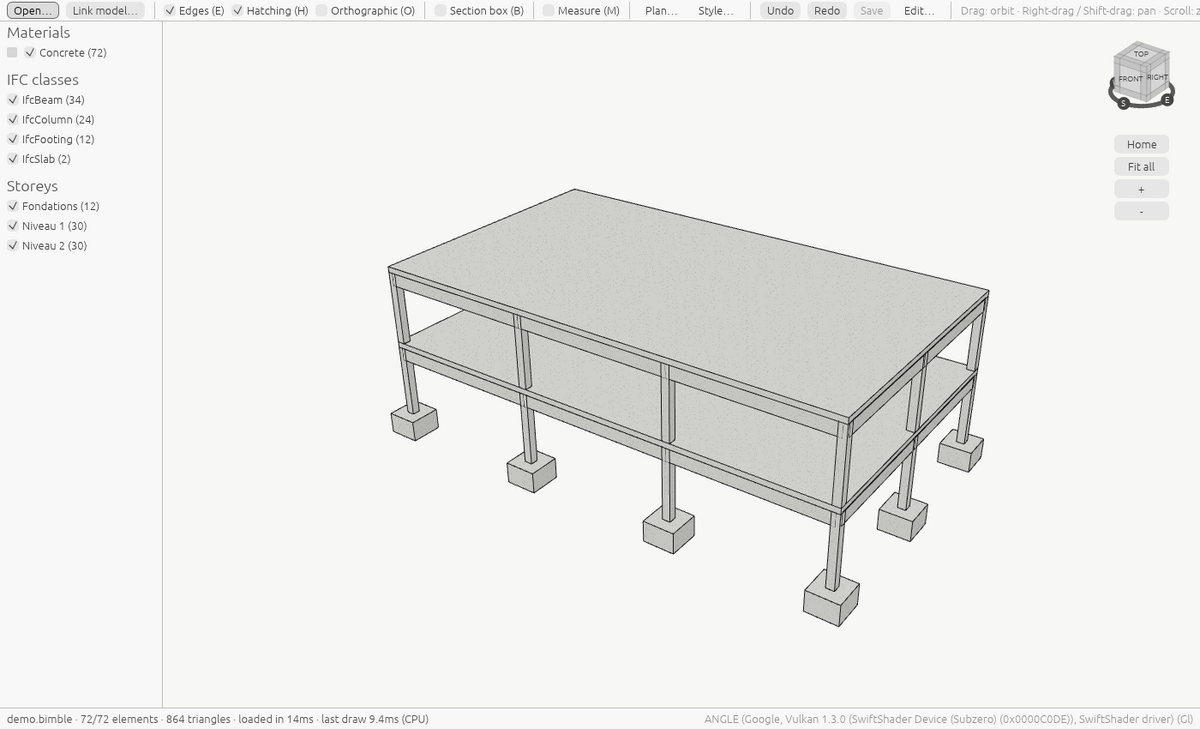
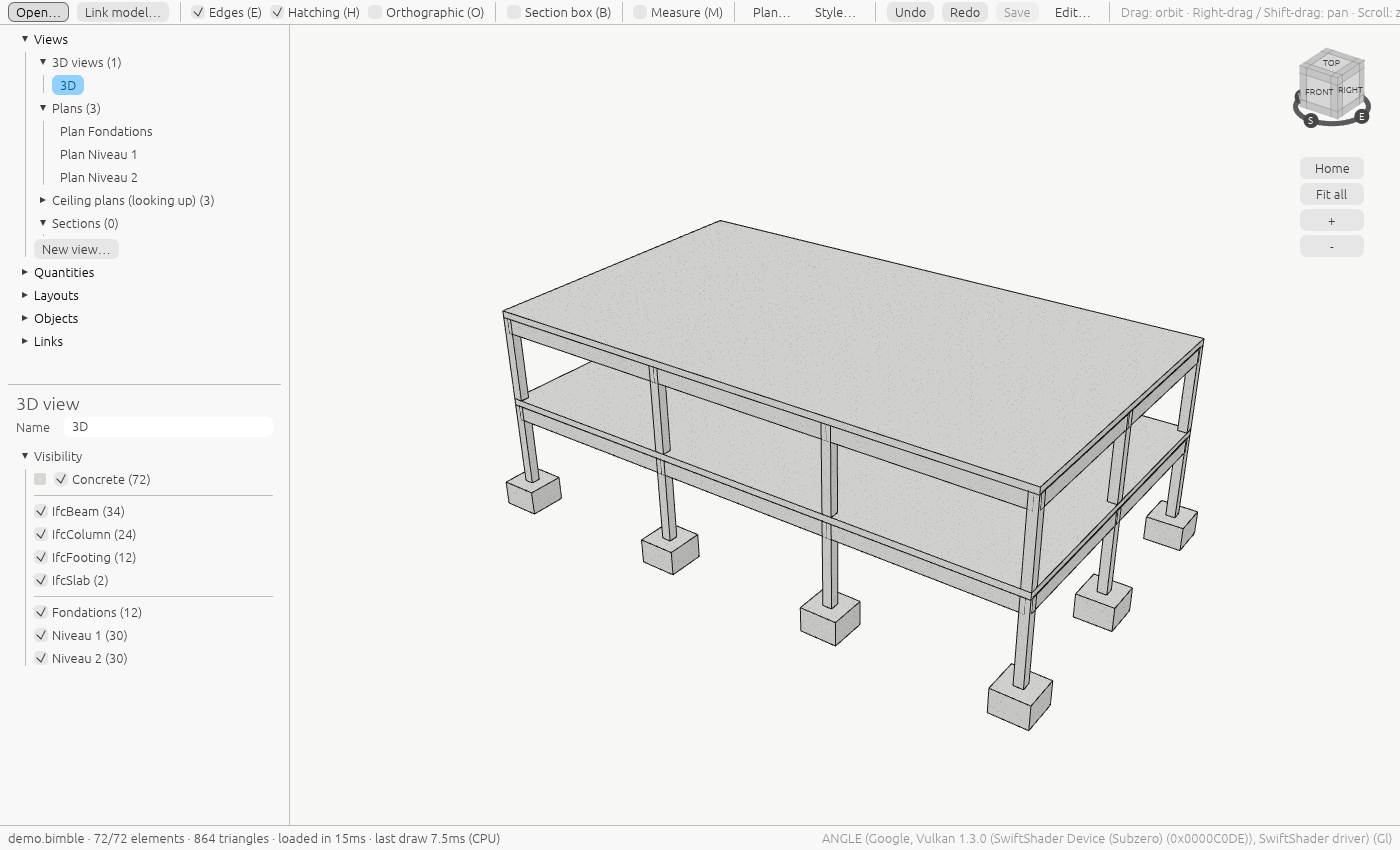
Manual: views and reference plans; the new left panel (navigator, properties)
Claude-Session: https://claude.ai/code/session_01NjHAvhKLoCiQzrcv9aREmM

Changed region(s): [[0.3083, 0.2414, 0.8633, 0.8752], [0.0, 0.0302, 0.1542, 0.4225], [0.0, 0.4527, 0.1233, 0.7846]]

diff --git a/docs/manual/views.md b/docs/manual/views.md
@@ -1,0 +1,155 @@
+# Views and reference plans
+
+A model has several **views**: 3D views, plans looking down, ceiling plans looking up, and
+sections. Each view keeps its own camera, what it hides and its reference plans. You select,
+edit and measure elements in a plan or a section exactly as in 3D.
+
+## The model navigator
+
+The top of the left panel lists everything in the model:
+
+| Section | Holds |
+|---|---|
+| **Views** | 3D views, Plans, Ceiling plans (looking up), Sections. Click one to open it |
+| **Quantities** | Number of elements and volume (m³) per IFC class |
+| **Layouts** | **Storey plan on paper…** opens the [plan window](plans.md) |
+| **Objects** | The elements by IFC class. Click one to select it and frame it |
+| **Links** | The [linked model](linked-models.md), and every reference plan with its view |
+| **Measurements** | The dimensions you took (see [Measuring](viewing.md#measuring)) |
+| **Warnings** | Problems found while reading the file |
+
+A view with reference plans shows how many, such as `Plan Niveau 1 [1 ref.]`.
+
+### The views you start with
+
+Every model has, without anything to set up:
+
+- **3D**;
+- **Plan** *storey* for each storey, looking down;
+- **Ceiling** *storey* for each storey, looking up.
+
+### New views
+
+**New view…** under the list makes:
+
+- a plan or a ceiling plan of any storey;
+- a section looking north, east, south or west, through the middle of the model;
+- another 3D view.
+
+Right-click a view for **Duplicate**, or **Delete**. A view you started with can't be deleted, but
+once you have changed it, **Reset to default** brings it back as it was.
+
+## Plans and sections
+
+In a plan or a section:
+
+- the camera looks square to the view; **drag to pan**, scroll to zoom, double-click or ++f++ to
+  fit;
+- the view cube, Home, the section box and perspective are off: the view is cut by its range;
+- clicking selects, the properties panel edits, ++m++ measures, as in 3D;
+- placing elements (**Edit…**) in a plan puts them on that plan's storey.
+
+**Ceiling plans** look up at the underside of the floor above, like a reflected ceiling plan:
+north stays at the top and east on the right.
+
+![A section looking north through the demo frame](../images/section.png)
+
+### View range
+
+A plan shows what lies between two heights, set in its properties under **View range**:
+
+| Plane | Looking down | Looking up |
+|---|---|---|
+| **Top** | Upper limit of the view's range | Upper limit of the view's range |
+| **Cut plane** | Where the model is cut; you see down from here | Where the model is cut; you see up from here |
+| **Bottom** | Lower limit | Lower limit |
+| **View depth** | How far below the cut you see | How far above the cut you see |
+
+Each plane is a **level** and an **offset** in mm:
+
+- **Associated level**: the plan's storey;
+- **Level above** or **Level below**: the next storey up or down;
+- **Unlimited**: no limit (the offset is then ignored).
+
+A plan looking down shows from the view depth up to the cut plane; a ceiling plan, from the cut
+plane up to the view depth.
+
+The planes must be in order, from the bottom up:
+
+- looking down: view depth ≤ bottom ≤ cut plane ≤ top;
+- looking up: bottom ≤ cut plane ≤ top ≤ view depth.
+
+A range out of order is refused with a message, and the view keeps its previous range.
+
+The usual cut is 1.2 m above the storey looking down and 2.3 m looking up. On a storey lower than
+that, such as a foundation level, the cut starts at half the storey's height.
+
+### Sections
+
+A section's properties set:
+
+- **Through X / Y**: the point the section passes through, in mm;
+- **Looking**: north, east, south or west;
+- **Depth**: how far beyond the cut you see, in mm; 0 shows everything.
+
+## Visibility
+
+Each view has its own **Visibility** list: material families, IFC classes and storeys. Untick one
+to hide it in this view only. The plan of a storey can hide the footings while the 3D view shows
+everything.
+
+## Reference plans
+
+A reference plan is another office's drawing, such as the architect's floor plan, laid over a plan
+or a section to check that the geometry matches and to measure on it.
+
+- It is shown **only in its view**.
+- It is **dead geometry**: its lines can't be selected or changed, only moved.
+- It is drawn in the reference colour (blue by default).
+
+![A DXF reference plan over the demo frame. One column was drawn 80 mm away from the model's.](../images/plan-reference.png)
+
+### Add one
+
+1. Open the plan or section.
+2. In its properties, under **Reference plans**, click **Add reference plan…**, or drop the file on
+   the window.
+3. Pick the file:
+    - **DXF**: read with its units (`$INSUNITS`; millimetres when the file doesn't say). Lines,
+      arcs, circles, ellipses, polylines (with arcs), splines, solids, and blocks are read, from
+      model space; text and hatches are not (the message counts what was left out).
+    - **PDF**: the vector lines of the first page. Set its scale in **PDF at 1:** *before* adding it
+      (1:100 by default). A scanned PDF has no lines to read.
+    - **DWG**: not read directly. Convert it to DXF first, with the free
+      ODA File Converter or LibreDWG's `dwg2dxf`.
+
+A DXF drawn in the project's coordinates lands where it belongs. When the plan's coordinates are
+far from the model (a PDF, a drawing at the origin), it is centred on the model and the message
+says so: then move it into place.
+
+### Move it into place
+
+- Type the **Move** offsets (X and Y in mm, along the view) and the rotation in degrees, or
+- turn on **Drag it in the view** and drag: the plan follows the mouse. Turn it off to pan again.
+
+### Measure on it
+
+With Measure (++m++) on, points snap to the reference plan's corners and lines as well as to the
+model. Measure from a column of the model to the same column on the architect's plan to see how
+far apart they are.
+
+### Hide or remove it
+
+The tick box next to its name shows or hides it; **Remove** takes it out of the view.
+
+## Where views are saved
+
+- In a **`.bimble` model**, views are part of the model: saved with it, undone with ++ctrl+z++, and
+  kept in its [history](history.md).
+- An **IFC file** is never changed. Its views go in a file next to it, named after it:
+  `model.ifc.bimble-views.json`. **Save views** in the toolbar, or ++ctrl+s++, writes it; it is read
+  the next time you open the IFC. In a browser, it is downloaded instead, and can't be read back
+  there yet.
+
+Reference plans are stored inside the view (as lines in mm), so the model or the side file carries
+them: the original DXF or PDF is no longer needed.

diff --git a/docs/manual/first-steps.md b/docs/manual/first-steps.md
@@ -25,7 +25,7 @@ took to load, and the graphics card in use.
 | Drag | Orbit around the model |
 | Right-drag, or Shift-drag | Pan |
 | Scroll | Zoom |
-| Click | Select an element (its properties appear on the right) |
+| Click | Select an element (its properties appear at the bottom left) |
 | Double-click, or ++f++ | Fit everything visible in the view |
 | ++t++ | Look from the top |
 | ++o++ | Switch between perspective and orthographic |
@@ -52,10 +52,24 @@ The buttons under the cube:
 - **Fit sel.** (when something is selected) frames the selection.
 - **+** and **−** zoom in and out.
 
+## The left panel
+
+The left panel has two parts, one above the other (drag the line between them to share the
+height):
+
+- the **model navigator** at the top: the model's views, quantities, layouts, objects and links,
+  then measurements and warnings;
+- the **properties** below: those of the selected element, or of the view when nothing is
+  selected.
+
+[Views and reference plans](views.md) explains the navigator and the views.
+
 ## Show and hide
 
-The panel on the left lists the model's **material families**, **IFC classes** and **storeys**,
-with the number of elements in each. Untick one to hide those elements, tick it again to show them.
+Under **Visibility**, in the view's properties, are the model's **material families**, **IFC
+classes** and **storeys**, with the number of elements in each. Untick one to hide those elements,
+tick it again to show them. What you hide is kept with the view: the plan of a storey can hide the
+footings while the 3D view shows everything.
 
 The toolbar switches **Edges** (++e++) and **Hatching** (++h++) on and off. Hatching is the pattern
 drawn on each material: concrete stipple, timber grain, and so on.
@@ -63,5 +77,6 @@ drawn on each material: concrete stipple, timber grain, and so on.
 ## What next
 
 - [Looking at a model](viewing.md): section box, measuring, properties.
+- [Views and reference plans](views.md): plans, ceiling plans, sections, another office's drawing.
 - [Storey plans](plans.md): draw a plan at scale.
 - [Editing a model](editing.md): change a `.bimble` model.

diff --git a/docs/manual/viewing.md b/docs/manual/viewing.md
@@ -2,20 +2,22 @@
 
 ## Properties
 
-Click an element to select it. Its properties open in a panel on the right:
+Click an element to select it, in a 3D view or a plan or section. Its properties replace the
+view's at the bottom of the left panel:
 
 - IFC class, name and GlobalId (selectable, so you can copy it);
 - storey and material, with the material's family;
 - number of triangles and volume, in m³.
 
-++esc++ clears the selection.
+++esc++, or **← View properties**, clears the selection.
 
 In a `.bimble` model, the same panel lets you change the element: see
 [Editing a model](editing.md).
 
 ## Section box
 
-The section box (++b++) shows only what is inside a box. Solids it cuts show their cut face, so
+The section box is for 3D views; plans and sections are cut by their [view range](views.md#view-range)
+instead. The section box (++b++) shows only what is inside a box. Solids it cuts show their cut face, so
 you can see inside walls, slabs and columns.
 
 - Tick **Section box** in the toolbar, or press ++b++. The box starts around the selected element,
@@ -41,7 +43,10 @@ Measure (++m++) takes dimensions on the model: two clicks make one dimension.
     Corners and edges hidden behind something are ignored.
 3. Click the first point, then the second. ++esc++ drops a first point you don't want.
 
-Each dimension is listed under **Measurements** in the left panel with:
+In a plan or a section, the points also snap to the corners and lines of the view's
+[reference plans](views.md#reference-plans).
+
+Each dimension is listed under **Measurements** in the model navigator with:
 
 - the distance;
 - its ΔX, ΔY and ΔZ;
@@ -53,6 +58,6 @@ model is open: they aren't saved in the file yet.
 
 ## Warnings
 
-Problems found while reading a file are listed under **Warnings** at the bottom of the left panel.
+Problems found while reading a file are listed under **Warnings** at the bottom of the model navigator.
 A typical one: an opening that couldn't be cut because a wall's geometry isn't a closed solid. The
 element is then drawn uncut.

diff --git a/docs/reference/keys.md b/docs/reference/keys.md
@@ -1,6 +1,6 @@
 # Mouse and keys
 
-Keys act on the 3D view; they do nothing while you are typing in a field. On macOS, ++ctrl++ is
+Keys act on the view; they do nothing while you are typing in a field. On macOS, ++ctrl++ is
 ++cmd++.
 
 ## Mouse
@@ -16,6 +16,9 @@ Keys act on the 3D view; they do nothing while you are typing in a field. On mac
 | Drag the view cube | Orbit |
 | Click the view cube | Look from that face, edge or corner |
 | Drag a section box arrow | Move that face of the box |
+
+In a plan or a section, dragging pans (there is nothing to orbit), or moves the reference plan whose
+**Drag it in the view** is on. ++t++, ++o++ and ++b++ do nothing there, and the view cube is hidden.
 
 ## Keys
 
@@ -36,5 +39,5 @@ Keys act on the 3D view; they do nothing while you are typing in a field. On mac
 |---|---|
 | ++ctrl+z++ | Undo |
 | ++ctrl+y++, ++ctrl+shift+z++ | Redo |
-| ++ctrl+s++ | Save (download, in a browser) |
+| ++ctrl+s++ | Save (download, in a browser). With an IFC model: save its views to the side file |
 | ++delete++ | Delete the selected element |

diff --git a/docs/index.md b/docs/index.md
@@ -5,8 +5,9 @@ uses IFC as its data model, and treats the drawing as the product.
 
 With Bimble you can:
 
-- **open IFC files** and look at them: filters by material, IFC class and storey, a section box,
-  measuring, a view cube;
+- **open IFC files** and look at them: 3D views, plans looking down or up and sections with a
+  view range, another office's plan on top to check it against, filters by material, IFC class
+  and storey, a section box, measuring, a view cube;
 - **compare** your model with another one, such as the architect's IFC, and see what only one of
   them has;
 - **draw storey plans at scale** (1:1 to 1:5000) on A4 to A0, as PDF, SVG or PNG. Plans can have

diff --git a/docs/manual/editing.md b/docs/manual/editing.md
@@ -18,7 +18,8 @@ With a `.bimble` model open, the toolbar shows **Undo**, **Redo**, **Save**, **E
 
 ## Change an element
 
-Click an element. The panel on the right shows its properties:
+Click an element, in a 3D view, a plan or a section. The properties panel, at the bottom left,
+shows its properties:
 
 - **Name**;
 - GlobalId, storey, material and generator, for information;

diff --git a/docs/manual/linked-models.md b/docs/manual/linked-models.md
@@ -9,7 +9,7 @@ project line up.
 - **Link model…** in the toolbar (once a model is open), or
 - `bimble view structure.ifc --link architecture.ifc`.
 
-The linked model appears under **Linked model** in the left panel. It can be shown three ways:
+The linked model appears under **Links** in the model navigator. It can be shown three ways:
 
 | Mode | Shows |
 |---|---|
